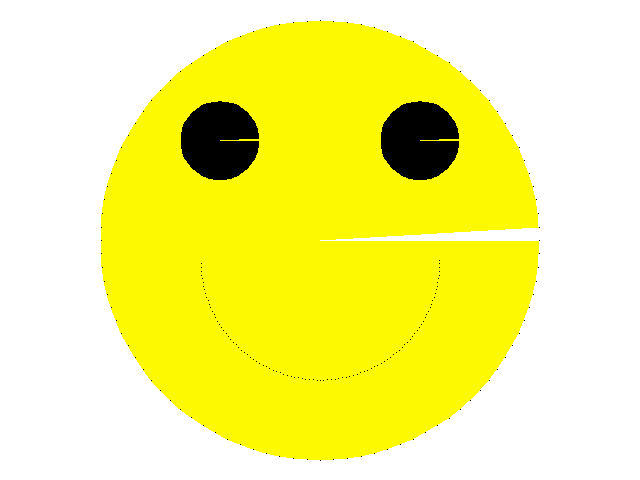
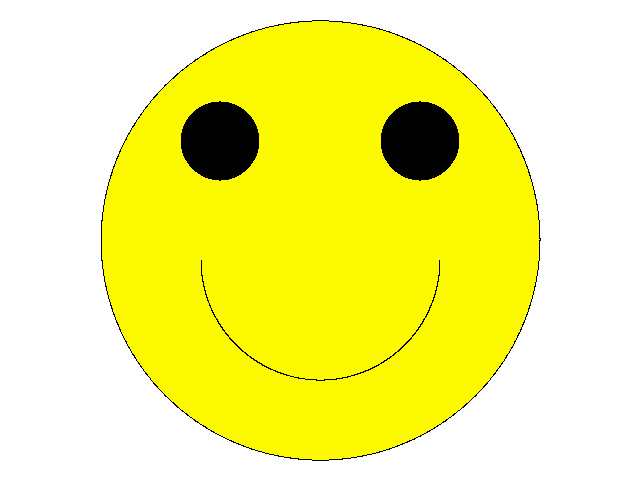
get size closer

diff --git a/src/pntr_brush.h b/src/pntr_brush.h
@@ -82,7 +82,7 @@ typedef struct pntr_brush {
 } pntr_brush;
 
 #ifndef PNTR_BRUSH_ARC_SEGMENTS
-#define PNTR_BRUSH_ARC_SEGMENTS 100
+#define PNTR_BRUSH_ARC_SEGMENTS 2048
 #endif
 
 // Brush methods
@@ -250,8 +250,8 @@ PNTR_BRUSH_API void pntr_brush_arc(pntr_brush* brush, int centerX, int centerY, 
             .y = centerY
         },
         .radius = radius,
-        .startAngle = radToDeg(startAngle),
-        .endAngle = radToDeg(endAngle),
+        .startAngle = startAngle,
+        .endAngle = endAngle,
         .segments = PNTR_BRUSH_ARC_SEGMENTS
     };
 }
@@ -280,7 +280,7 @@ PNTR_BRUSH_API void pntr_brush_stroke(pntr_brush* brush) {
             }
             break;
             case PNTR_BRUSH_ACTION_TYPE_ARC: {
-                pntr_draw_arc(brush->dst, action->position.x, action->position.y, action->radius, action->startAngle, action->endAngle, action->segments, brush->strokeStyle);
+                pntr_draw_arc(brush->dst, action->position.x, action->position.y, action->radius, radToDeg(action->startAngle), radToDeg(action->endAngle), action->segments, brush->strokeStyle);
             }
             break;
         }
@@ -311,7 +311,7 @@ PNTR_BRUSH_API void pntr_brush_fill(pntr_brush* brush) {
             }
             break;
             case PNTR_BRUSH_ACTION_TYPE_ARC: {
-                pntr_draw_arc_fill(brush->dst, action->position.x, action->position.y, action->radius, action->startAngle, action->endAngle, action->segments, brush->fillStyle);
+                pntr_draw_arc_fill(brush->dst, action->position.x, action->position.y, action->radius, radToDeg(action->startAngle), radToDeg(action->endAngle), action->segments, brush->fillStyle);
             }
             break;
         }
